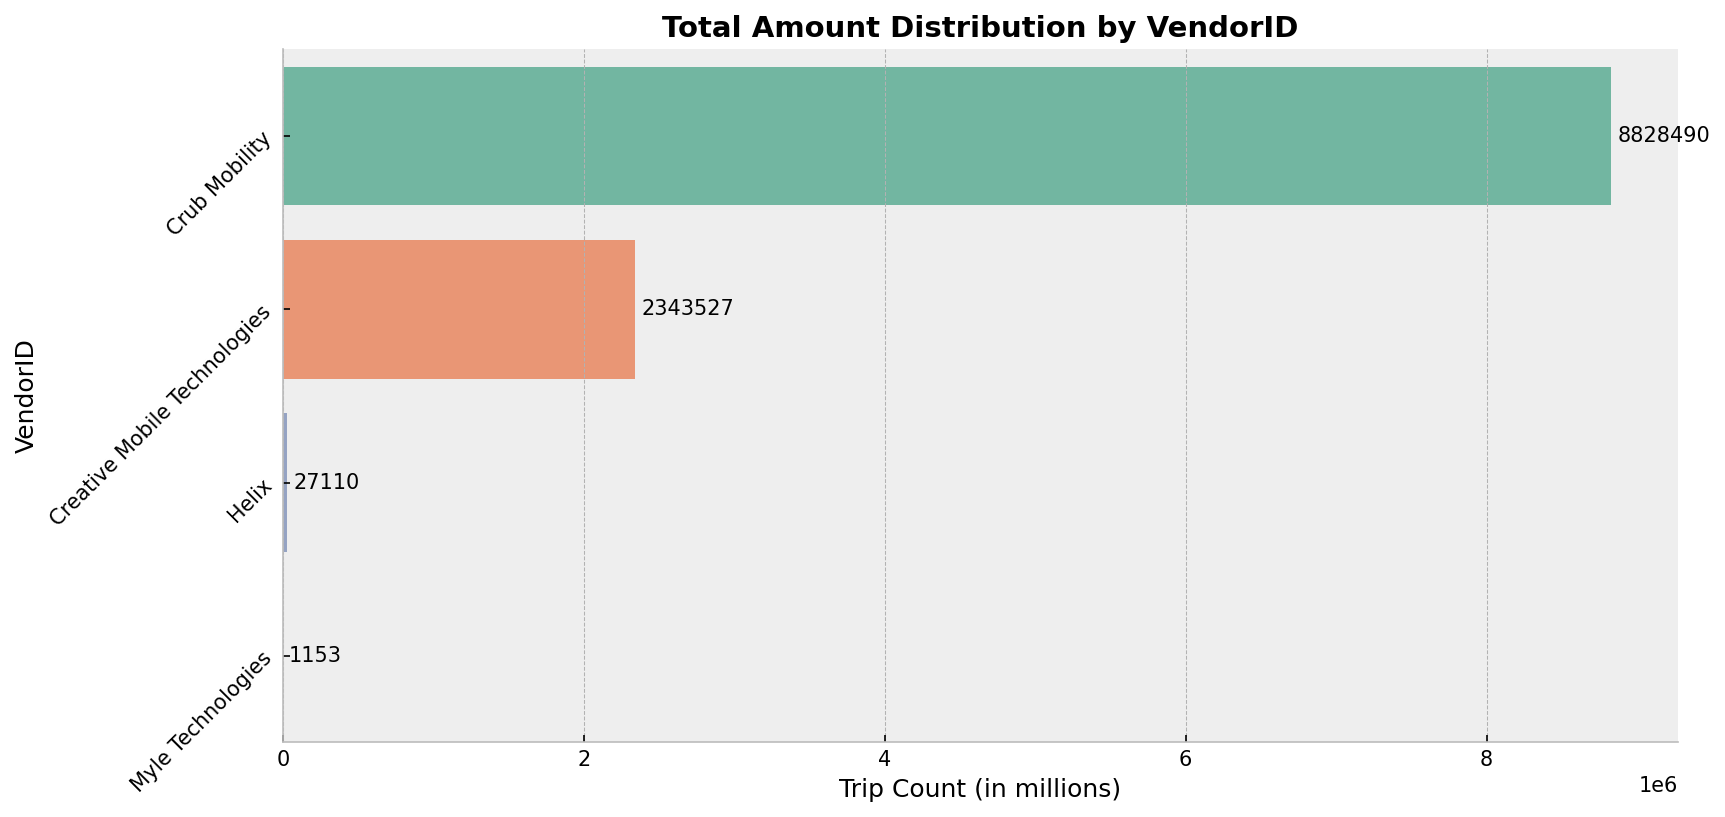
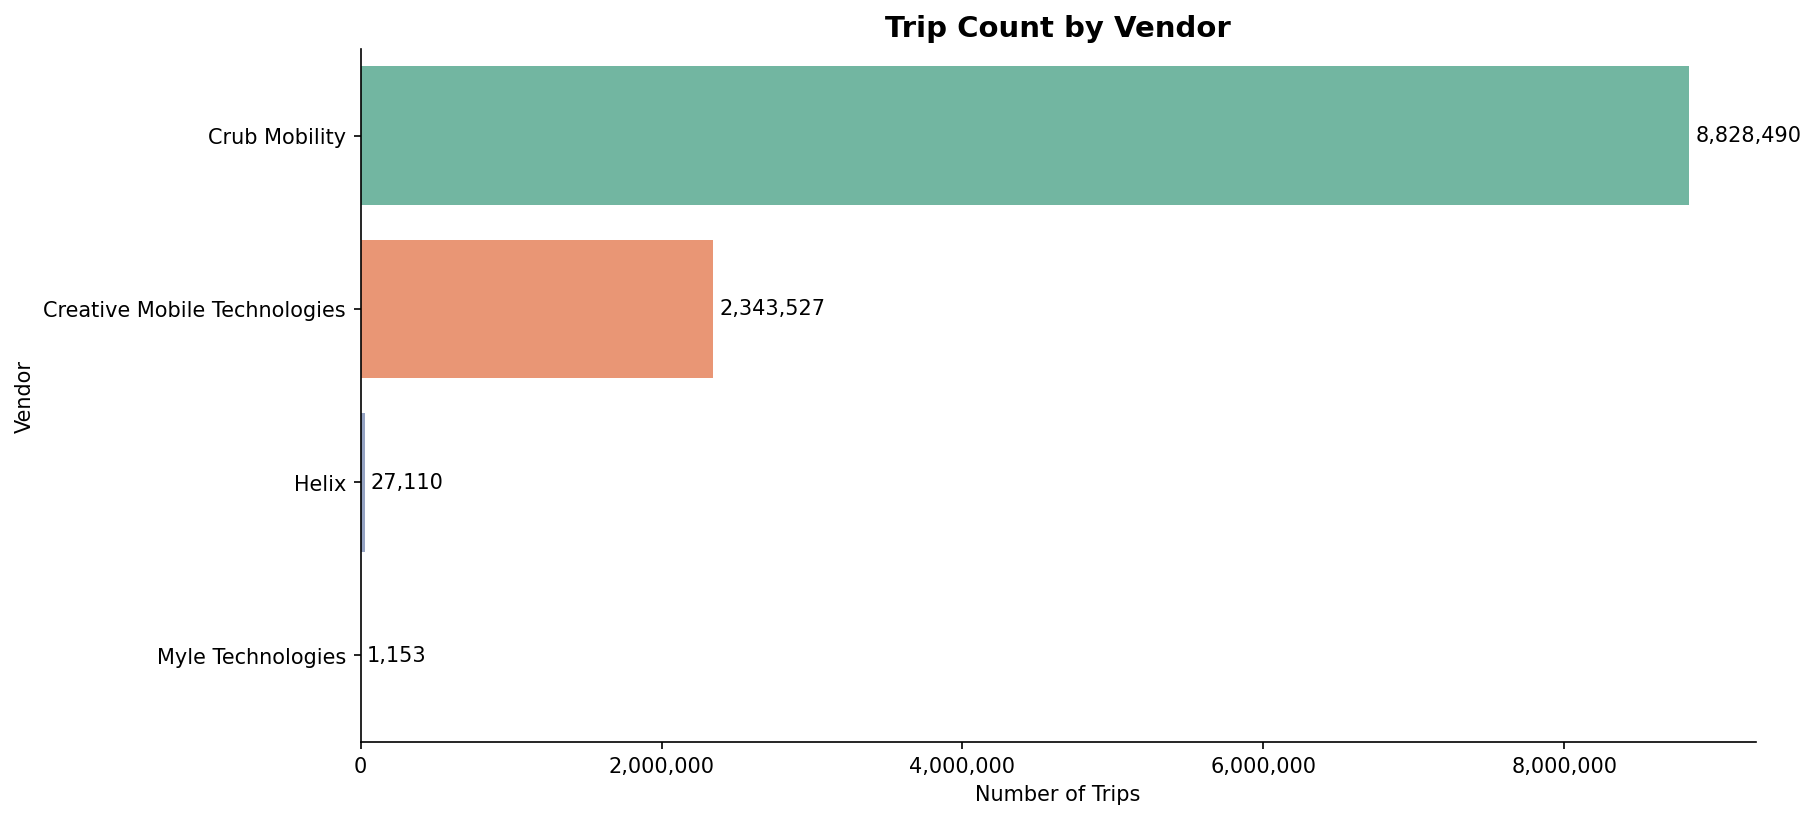
fixes to plots

diff --git a/Analytical_section/Univariate_EDA/trip_dist.py b/Analytical_section/Univariate_EDA/trip_dist.py
@@ -1,61 +1,42 @@
-# the distributions of trip distance
-#
 import matplotlib.pyplot as plt
 import seaborn as sns
+import matplotlib.ticker as mticker
 
 def trip_dist(df):
-    #NOTE REMOVE later
-   #first checking for outliers 
-    # sns.boxplot(x=df['trip_distance'])
-    # plt.title('Boxplot of Trip Distance')
-    # plt.show()
-    ###
-    # so they do exist , we will remove them 
+    #NOTE remove later
     Q1 = df['trip_distance'].quantile(0.25)
     Q3 = df['trip_distance'].quantile(0.75)
     IQR = Q3 - Q1
-    lower_bound = Q1 - 1.5 * IQR
-    upper_bound = Q3 + 1.5 * IQR
-    df = df[(df['trip_distance'] >= lower_bound) & (df['trip_distance'] <= upper_bound)]
-    
-    #sns.boxplot(x=df['trip_distance'])
-    #plt.title('Boxplot of Trip Distance')
-    #plt.show()
-    #######################################################################
-    ## Now to ploting
-    ##
-    
+    df = df[(df['trip_distance'] >= Q1 - 1.5 * IQR) & (df['trip_distance'] <= Q3 + 1.5 * IQR)]
+    df = df[df['trip_distance'] > 0]
+
     plt.style.use('fast')
-    plt.figure( figsize=(10, 6) )
-     
-    sns.histplot(df['trip_distance'], bins=50, kde=False, color='lightgray') # Replace your histplot line with this:
-    #sns.kdeplot(df['trip_distance'], fill=True, color='#4C72B0',palette='Set2' , alpha=0.6)  # KDE plot with fill and color
+    plt.figure(figsize=(10, 6))
+
+    ax = sns.histplot(df['trip_distance'], bins=50, kde=False, color='lightgray')
+
     
+    ax.xaxis.set_major_locator(mticker.MultipleLocator(0.5))   # change to 0.25 if you want even more detail
+
     plt.title('Distribution of Trip Distance')
     plt.xlabel('Trip Distance (miles)')
     plt.ylabel('Frequency')
-    
-    plt.axvline(x=df['trip_distance'].mean(), color='black', linestyle='--', label='Mean')
-    #adding the value of the mean in numbers 
-    plt.text(df['trip_distance'].mean(), plt.ylim()[1]*0.9, f'  Mean: {df["trip_distance"].mean():.2f}', color='black')
-    
-    plt.axvline(x=df['trip_distance'].median(), color='darkgreen', linestyle='--', label='Median')
 
+    # Mean & Median
+    mean_val = df['trip_distance'].mean()
+    median_val = df['trip_distance'].median()
+
+    plt.axvline(x=mean_val, color='black', linestyle='--', label='Mean')
+    plt.text(mean_val, plt.ylim()[1]*0.95, f'  Mean: {mean_val:.2f}', color='black')
+
+    plt.axvline(x=median_val, color='darkgreen', label='Median')
+
+
+    plt.text(median_val - 0.2,plt.ylim()[1] * 0.97,f'Median: {median_val:.2f}',
+        color='darkgreen',
+        ha='right')
     plt.legend()
-    
-    #we will have a classic background 
-   
-    sns.despine() 
-    #now we will save the plot as an image file
+    sns.despine()
+
     plt.savefig('trip_distance_distribution.png')
     plt.show()
-    
-    
-
-#a quick note a 1 mile is ~1.6 km 
-
-
-
-
-
-

diff --git a/Analytical_section/Univariate_EDA/payment_type.py b/Analytical_section/Univariate_EDA/payment_type.py
@@ -3,11 +3,15 @@
 import matplotlib.pyplot as plt 
 import seaborn as sns 
 
+import matplotlib.ticker as mticker
+
 def payment_type(data):
     #NOTE REMOVE LATER: 
 
+    
+    #filling null with 5 as there id 
+    data['payment_type'] = data['payment_type'].fillna(5).round()
     data = data[data['payment_type'].isin([0, 1, 2, 3, 4, 5 , 6 ])]
-
     # payment type : 
     #0 : Flex Fare trip  1: credit card 2: cash 3: no charge 4: dispute 5: unknown 6: voided trip
     sns.set_style('whitegrid') # to have a nice background for the plot
@@ -25,26 +29,33 @@ def payment_type(data):
 
     order = data['payment_type'].value_counts().index
 
-    sns.countplot(
-        y=data['payment_type'],
-        order=order,
-        palette='Set2'
-    )
+    ax = sns.countplot(
+    y=data['payment_type'],
+    order=order,
+    palette='Set2'
+)
 
-    plt.yticks(
-        ticks=range(len(order)),
-        labels=[mapping[i] for i in order]
-    )
+    for container in ax.containers:
+        ax.bar_label(container, fmt='{:,.0f}', padding=3)
+        plt.yticks(
+            ticks=range(len(order)),
+            labels=[mapping[i] for i in order]
+        )
 
     plt.title('Frequencies of Payment Types')
     plt.xlabel('Number of Trips')
     plt.ylabel('Payment Type')
         
-    import matplotlib.ticker as mticker
-    plt.gca().xaxis.set_major_formatter(mticker.StrMethodFormatter('{x:,.0f}'))
+   
     
-    sns.despine() # to look like R classic 
-    # we will save the plot as an image file
+
+    ax = plt.gca()
+    ax.xaxis.set_major_formatter(mticker.StrMethodFormatter('{x:,.0f}'))
+    ax.xaxis.set_major_locator(mticker.MaxNLocator(nbins=6))
+
+    plt.xticks(rotation=30)   
+    sns.despine() 
+    
     plt.savefig('payment_type_frequencies.png')
     plt.show()
     

diff --git a/Analytical_section/Univariate_EDA/VendorID_trips_count_for_each.py b/Analytical_section/Univariate_EDA/VendorID_trips_count_for_each.py
@@ -1,47 +1,38 @@
-
 import matplotlib.pyplot as plt
 import seaborn as sns
-
+import matplotlib.ticker as mticker
 
 def VendorID_trips_count_for_each(data):
     
-    plt.style.use('bmh')
+    plt.style.use('fast')
     plt.figure(figsize=(12, 6))
 
-    '''
-    1 = Creative Mobile Technologies, LLC
-    2 = Crub Mobility LLC
-    6 = Myle Technologies, Inc.
-    7 = Helix
-    '''
     vendor_map = {
-    1: 'Creative Mobile Technologies',
-    2: 'Crub Mobility',
-    6: 'Myle Technologies',
-    7: 'Helix'
-}
+        1: 'Creative Mobile Technologies',
+        2: 'Crub Mobility',
+        6: 'Myle Technologies',
+        7: 'Helix'
+    }
 
     data['VendorName'] = data['VendorID'].map(vendor_map)
 
+    ax = sns.countplot(
+        y=data.VendorName,
+        palette='Set2',
+        order=data.VendorName.value_counts().index
+    )
 
 
-    ax = sns.countplot(y=data.VendorName  , palette='Set2' , order=data.VendorName.value_counts().index)
+    ax.xaxis.set_major_formatter(mticker.StrMethodFormatter('{x:,.0f}'))
 
-   
+    
     for container in ax.containers:
-         ax.bar_label(container, label_type='edge', padding=3 , fmt='%.0f')
+        ax.bar_label(container, label_type='edge', padding=3, fmt='{:,.0f}')
 
     plt.title('Trip Count by Vendor', fontsize=14, fontweight='bold')
-
-    
-    plt.ylabel('VendorID', fontsize=12)
-    
+    plt.ylabel('Vendor')
     plt.xlabel('Number of Trips')
-    plt.yticks(rotation=45)  
-
-
 
     sns.despine()
     plt.savefig('VendorID_trips_count_for_each.png', dpi=150, bbox_inches='tight')
-
     plt.show()

diff --git a/Analytical_section/Bivariate_EDA/day_of_week_X_hours_X_total_count_of_trips.py b/Analytical_section/Bivariate_EDA/day_of_week_X_hours_X_total_count_of_trips.py
@@ -1,0 +1,46 @@
+import matplotlib.pyplot as plt
+import seaborn as sns
+import pandas as pd
+
+def facet_hour_x_weekday(df):
+    plt.style.use('fast')
+
+    # Aggregate data
+    grouped = df.groupby(['pickup_weekday', 'pickup_hour']).size().reset_index(name='trip_count')
+
+    # Weekday order
+    weekday_order = ['Monday', 'Tuesday', 'Wednesday', 'Thursday', 'Friday', 'Saturday', 'Sunday']
+    grouped['pickup_weekday'] = pd.Categorical(grouped['pickup_weekday'], categories=weekday_order, ordered=False)
+
+    # Create FacetGrid
+    g = sns.FacetGrid(
+        grouped,
+        col='pickup_weekday',
+        col_wrap=3,              # 3 plots per row
+        height=3.5,
+        sharey=True             # important for comparison
+    )
+
+    # Map barplot to each facet
+    g.map_dataframe(
+        sns.barplot,
+        x='pickup_hour',
+        y='trip_count',
+        palette='viridis'
+    )
+
+    # Titles and labels
+    g.set_titles("{col_name}")
+    g.set_axis_labels("Hour of Day", "Number of Trips")
+
+    # Rotate x labels slightly for readability
+    for ax in g.axes.flat:
+        ax.tick_params(axis='x', rotation=45 , labelsize=6)
+
+    sns.despine()
+
+    plt.subplots_adjust(top=0.9)
+    g.fig.suptitle('Trip Volume by Hour for Each Day of the Week')
+
+    plt.savefig('facet_hour_x_weekday.png')
+    plt.show()

diff --git a/main.py b/main.py
@@ -12,6 +12,7 @@ from Analytical_section.Univariate_EDA.dist_passenger import dist_passenger
 from Analytical_section.Univariate_EDA.passenger_count_over_time import passenger_count_over_time
 from preprocessing.nulls_handle import handle_nulls
 from preprocessing.anomlies import detect_anomalies
+from Analytical_section.Bivariate_EDA.day_of_week_X_hours_X_total_count_of_trips import facet_hour_x_weekday
 import seaborn as sns 
 import matplotlib.pyplot as plt 
 
@@ -48,15 +49,15 @@ def main():
     analyze_fare_amount(data) 
 
     trip_dist(data) 
-    payment_type(data)
-    rate_code(data)
     
+    rate_code(data)
+    VendorID_trips_count_for_each(data)  --> maybe just humnize the code 
     '''
     
-
+    payment_type(data)
     #passenger_count_over_time(data)
 
-    #VendorID_trips_count_for_each(data) # DONE
+    # DONE
 
 ###################
     #bivariate analysis
@@ -64,7 +65,7 @@ def main():
     '''
     hour_x_trip_volume(data)
     weekDay_x_trip_volume(data)
-
+    facet_hour_x_weekday(data) 
     '''
     #
     
